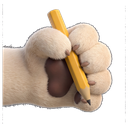
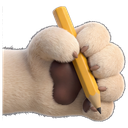
Лапы одного масштаба, свечение и глаза у none и unknown, нарезка не падает
Три замечания владельца, и первое из них оказалось не про генерацию.

**Палец вверх был мельче пальца вниз — виновата нарезка, а не модель.**
`content_box` брал `getbbox()`, а он считает содержимым ЛЮБОЙ ненулевой
пиксель. Десяток точек шума от заливки у края ячейки растягивал рамку
на всю её высоту, и после приведения к квадрату лапа выходила на четверть
мельче соседней. Точки убираются сжатием маски; все три лапы стали
123x122, 123x122, 123x116. Перегенерации не потребовалось вовсе.

**`bully_unknown` был из чужого прогона, у `bully_none` не было свечения.**
Обе перекатаны листом из ДВУХ ячеек: чем меньше ячеек, тем выше точность —
то же наблюдение, что дало потолок в шесть. Пришли пухлыми, со свечением
и с нормальными тёмными глазами.

Две правки в нарезке, обе по факту падения:

* точка старта заливки бралась как ПРЕОБЛАДАЮЩИЙ цвет края ячейки. Плашки
  доросли до угла, стали преобладать по краю, и нарезка падала с «фон
  не нейтральный» на здоровой картинке. Теперь фоном считается серое среди
  краевых пикселей, и только если его там заметная доля;
* в `--aspect` зашит список допустимых значений. `2:1` API не принимает,
  и узнавалось это ответом на уже отправленный лист — то есть минутами
  ожидания и оплаченным прогоном впустую.

Отдельно про свою работу: я глушил вывод нарезки в /dev/null, и её падение
какое-то время оставалось незамеченным — пак при этом выглядел собранным,
потому что в папке лежали файлы прошлой нарезки. Больше не глушить.
[…]

diff --git a/иконки/sheet.py b/иконки/sheet.py
@@ -184,21 +184,30 @@ def key_background(cell, thresh=FLOOD_THRESH, sat_max=SAT_MAX,
     px = rgb.load()
     border = [(x, 0) for x in range(w)] + [(x, h - 1) for x in range(w)] \
         + [(0, y) for y in range(h)] + [(w - 1, y) for y in range(h)]
+    # Считаем только НЕЙТРАЛЬНЫЕ пиксели края: фон по заданию серый, а плашка
+    # цветная. Просто «преобладающий цвет края» не годится — на листах 07.09
+    # плашка доросла до угла ячейки и стала преобладать по краю, из-за чего
+    # нарезка падала на живой, годной картинке.
     tally = {}
+    neutral = 0
     for xy in border:
         c = px[xy]
+        if max(c) - min(c) > sat_max:
+            continue
+        neutral += 1
         k = (c[0] // 8, c[1] // 8, c[2] // 8)
         tally[k] = tally.get(k, 0) + 1
+
+    # Немного серого по краю может дать и сама картинка — блик, тень, край
+    # предмета. Фоном считаем серое только если его по краю заметная доля.
+    if not tally or neutral < 0.05 * len(border):
+        raise ValueError(
+            "по краю ячейки нет серого фона (нейтральных пикселей "
+            f"{neutral} из {len(border)}) — эта нарезка рассчитана на плоский "
+            "серый фон из промпта, а тут до края дошла сама картинка")
+
     dom = max(tally, key=tally.get)
     dom = (dom[0] * 8 + 4, dom[1] * 8 + 4, dom[2] * 8 + 4)
-
-    if max(dom) - min(dom) > sat_max:
-        # Цветной фон рушит главное допущение, и молча снять при этом
-        # нечего: маска окажется пустой, ячейка уедет в Mattermost
-        # с квадратом фона. Лучше остановиться и сказать, что не так.
-        raise ValueError(
-            f"фон ячейки не нейтральный (RGB {dom}) — эта нарезка рассчитана "
-            "на плоский серый фон из промпта")
 
     # Насыщенность как max(R,G,B) - min(R,G,B): канальные операции PIL идут
     # в C, а поштучный обход миллиона пикселей на ячейку стоил бы секунды.
@@ -240,9 +249,24 @@ def key_background(cell, thresh=FLOOD_THRESH, sat_max=SAT_MAX,
     return out
 
 
-def content_box(cell):
-    """Границы непрозрачного содержимого. None — ячейка пустая."""
-    return cell.getbbox()
+def content_box(cell, alpha_min=32, speck=5):
+    """Границы содержимого без учёта одиночных пикселей. None — пусто.
+
+    `getbbox()` напрямую брать нельзя: он считает содержимым любой ненулевой
+    пиксель, и десяток точек шума, оставшихся от заливки у самого края
+    ячейки, растягивают рамку на всю ячейку. На листе лап это стоило
+    масштаба: рамка ушла в полную высоту, и после приведения к квадрату
+    палец вверх вышел на четверть мельче пальца вниз — заметно только
+    сравнением двух иконок рядом.
+
+    Точки убираем сжатием маски (`MinFilter`): всё тоньше `speck` пикселей
+    исчезает, крупное остаётся на месте. Порог `alpha_min` отсекает заодно
+    полупрозрачную бахрому. Если после сжатия не осталось ничего — значит
+    содержимое и было тонким, и рамку берём по несжатой маске.
+    """
+    alpha = cell.getchannel("A").point(lambda v: 255 if v >= alpha_min else 0)
+    box = alpha.filter(ImageFilter.MinFilter(speck)).getbbox()
+    return box or alpha.getbbox()
 
 
 def fit_square(cell, box, size=128, pad=0.02):

diff --git a/иконки/generate.py b/иконки/generate.py
@@ -350,7 +350,11 @@ def main():
     ap.add_argument("--model", default=DEFAULT_MODEL)
     ap.add_argument("--size", default="2K", choices=["1K", "2K", "4K"],
                     help="разрешение; лист режется на 128px, мельче 2K брать нечего")
-    ap.add_argument("--aspect", default="1:1", help="соотношение сторон")
+    # Список — из ответа API на неверное значение. Проверяем на месте: иначе
+    # ошибка приходит после отправки, а с листом это ещё и минуты ожидания.
+    ap.add_argument("--aspect", default="1:1", choices=[
+        "1:1", "1:4", "1:8", "2:3", "3:2", "3:4", "4:1", "4:3", "4:5", "5:4",
+        "8:1", "9:16", "16:9", "21:9"], help="соотношение сторон")
     ap.add_argument("--env", default="../.env", help="файл с GEMINI_API_KEY")
     ap.add_argument("--timeout", type=int, default=300,
                     help="секунд на ответ; лист 4K модель делает минутами")
